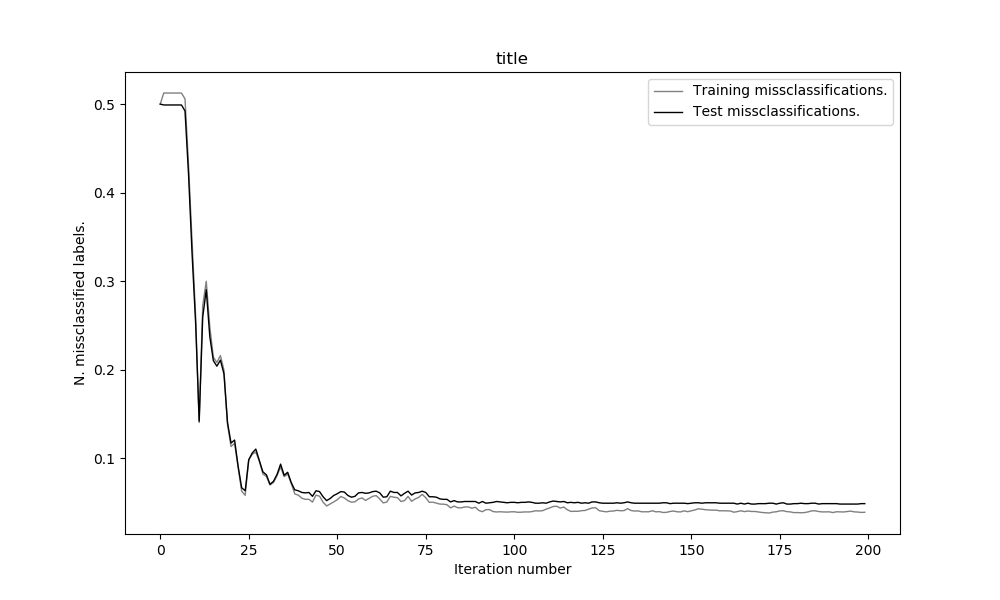
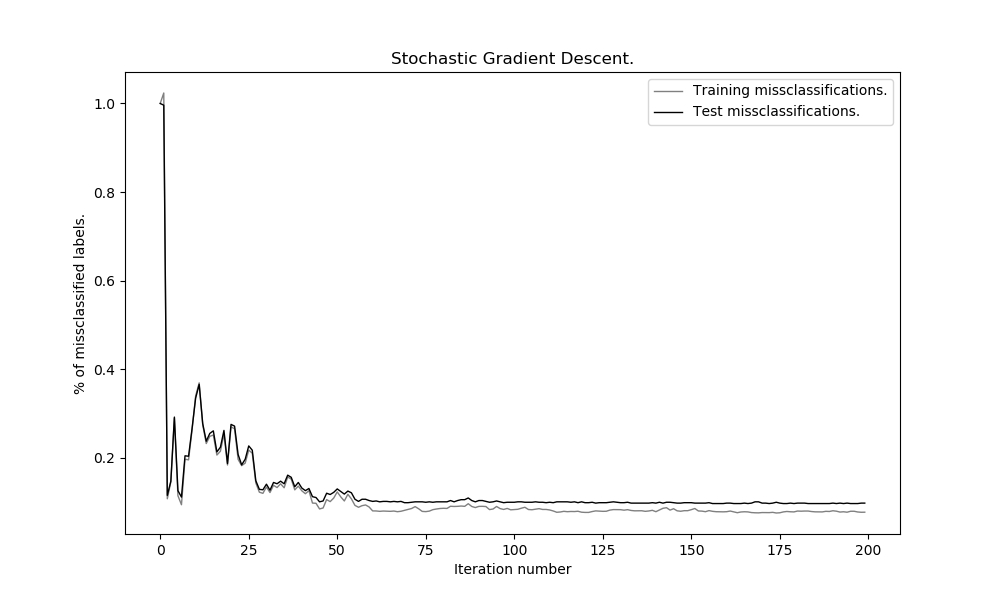
Fix misscount normalization issue.

diff --git a/HW2/HW2_code_solutions/logistic_regression.py b/HW2/HW2_code_solutions/logistic_regression.py
@@ -266,10 +266,10 @@ def count_missclassified(data, w, b, trueLabels):
     count: `int`
         Number of missclassified points.
     """
-    return  np.sum(np.abs( classify(data, w, b) - trueLabels )) / (2*len(trueLabels))
+    return np.sum(np.abs( classify(data, w, b) - trueLabels )) / (len(trueLabels))
 
 
-def gradient_descent(data, labels, lambd, step, nIter=10, stochastic=False,  batchSize=1):
+def gradient_descent(data, labels, lambd, step, nIter=20, stochastic=False,  batchSize=1):
     """Performs gradient, or stochastic gradient, descent on the given data.
 
     Parameters
@@ -284,7 +284,7 @@ def gradient_descent(data, labels, lambd, step, nIter=10, stochastic=False,  bat
         Steps size to take in the direction of the gradient.
     nIter: `int`, optional
         Number of iterations to preform, note that the function does not test
-        for convergence so ensure sufficient number of steps. Default: 10
+        for convergence so ensure sufficient number of steps. Default: 20
     stochastic: `bool`, optional
         If True preforms stochastic gradient descent. Default: False
     batchSize: `int`, optional
@@ -409,8 +409,9 @@ def A6abc(nIter, lambd, step, stochastic=False, batchSize=1, title="Gradient Des
         testJ.append(J(testData, testLabels, wi, bi, lambd))
         trainMisslbls.append(count_missclassified(testData, wi, bi, testLabels))
 
-    print(w)
     print(f"{title}")
+    print(f"    Converged weights max={w.max():.4f}   min={w.min():.4f}")
+    print(f"                      mean={w.mean():.4f}   median={np.median(w):.4f}   std={w.std():.4f}")
     print(f"    Converged to offset b={b:.4f}")
     print(f"    Objective converged for train to J={trainJ[-1]:.4f} and test J={testJ[-1]:.4f}")
 
@@ -426,8 +427,8 @@ def A6abc(nIter, lambd, step, stochastic=False, batchSize=1, title="Gradient Des
     ax2 = plot(ax2, iters, testMisslbls, label="Training missclassifications.",
                lc="gray")
     ax2 = plot(ax2, iters, trainMisslbls, label="Test missclassifications.",
-               title="title", xlabel="Iteration number",
-               ylabel="N. missclassified labels.")
+               title=f"{title}", xlabel="Iteration number",
+               ylabel="% of missclassified labels.")
     ax2.legend()
     plt.show()
 
